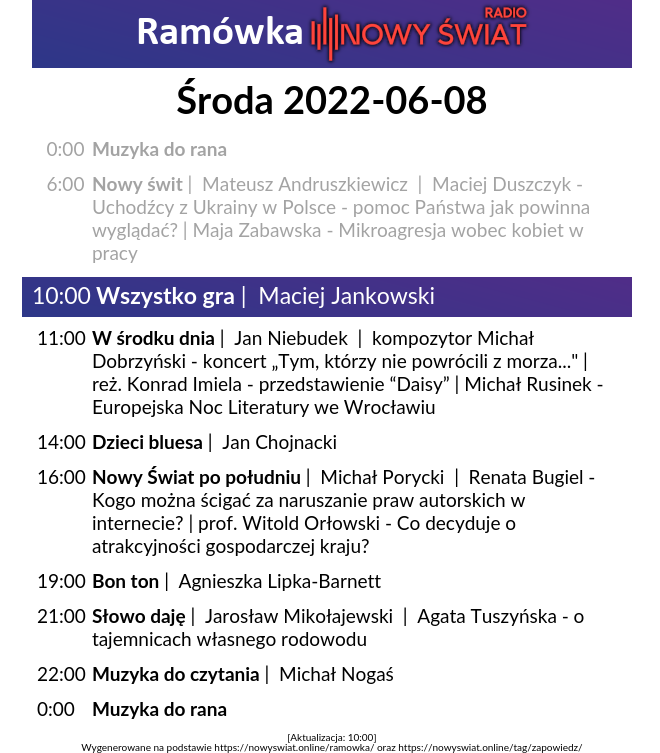
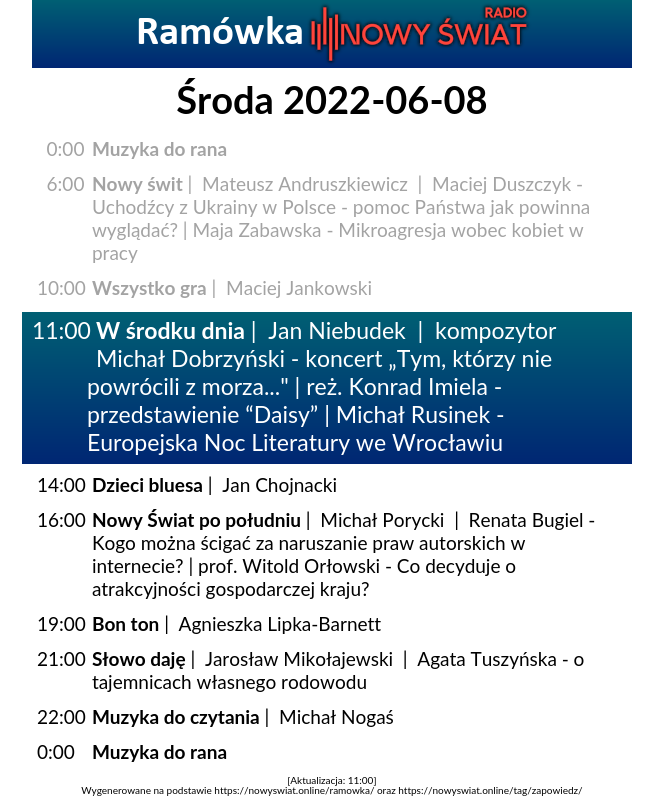
Regular auto-commit at 11:00:06 on 08/06/2022

diff --git a/ramowka.html b/ramowka.html
@@ -26,7 +26,7 @@ img {
     margin: auto;
     text-align: center;
     background-color: #000;
-    background-image: linear-gradient(15deg, #2D3788 0%, #502D88 100%);
+    background-image: linear-gradient(180deg, #005F73 0%, #002673 100%);
 }
 .time {
     display: block;
@@ -98,10 +98,10 @@ h1 {
 
 
         <div id="container"
- style="font-size: larger; background-color: #2D3788; color: white; padding: 5px 5px; text-align: left;" class="image">
-            <div class="time"><p >10:00</p></div>
+>
+            <div class="time"><p style="color: #a3a3a3;">10:00</p></div>
             <div class="values">
-            <p >
+            <p style="color: #a3a3a3;">
                 <strong>Wszystko gra</strong> |&nbsp;
                     Maciej Jankowski
             </p>
@@ -109,7 +109,7 @@ h1 {
         </div>
 
         <div id="container"
->
+ style="font-size: larger; background-color: #005F73; color: white; padding: 5px 5px; text-align: left;" class="image">
             <div class="time"><p >11:00</p></div>
             <div class="values">
             <p >
@@ -188,7 +188,7 @@ h1 {
             </div>
         </div>
 
-<p class="footer">[Aktualizacja: 10:00]<br/>Wygenerowane na podstawie https://nowyswiat.online/ramowka/ oraz https://nowyswiat.online/tag/zapowiedz/</p>
+<p class="footer">[Aktualizacja: 11:00]<br/>Wygenerowane na podstawie https://nowyswiat.online/ramowka/ oraz https://nowyswiat.online/tag/zapowiedz/</p>
 </div>
 </body>
 </html>

diff --git a/schedule.html b/schedule.html
@@ -84,7 +84,7 @@ img {
     <tr>
         <th colspan="9">
         <div class="container">
-          <div class="image"><img src="static/logo.png"><br/>Aktualizacja: 2022-06-08 10:00</div>
+          <div class="image"><img src="static/logo.png"><br/>Aktualizacja: 2022-06-08 11:00</div>
         </div>
         </th>
     </tr>
